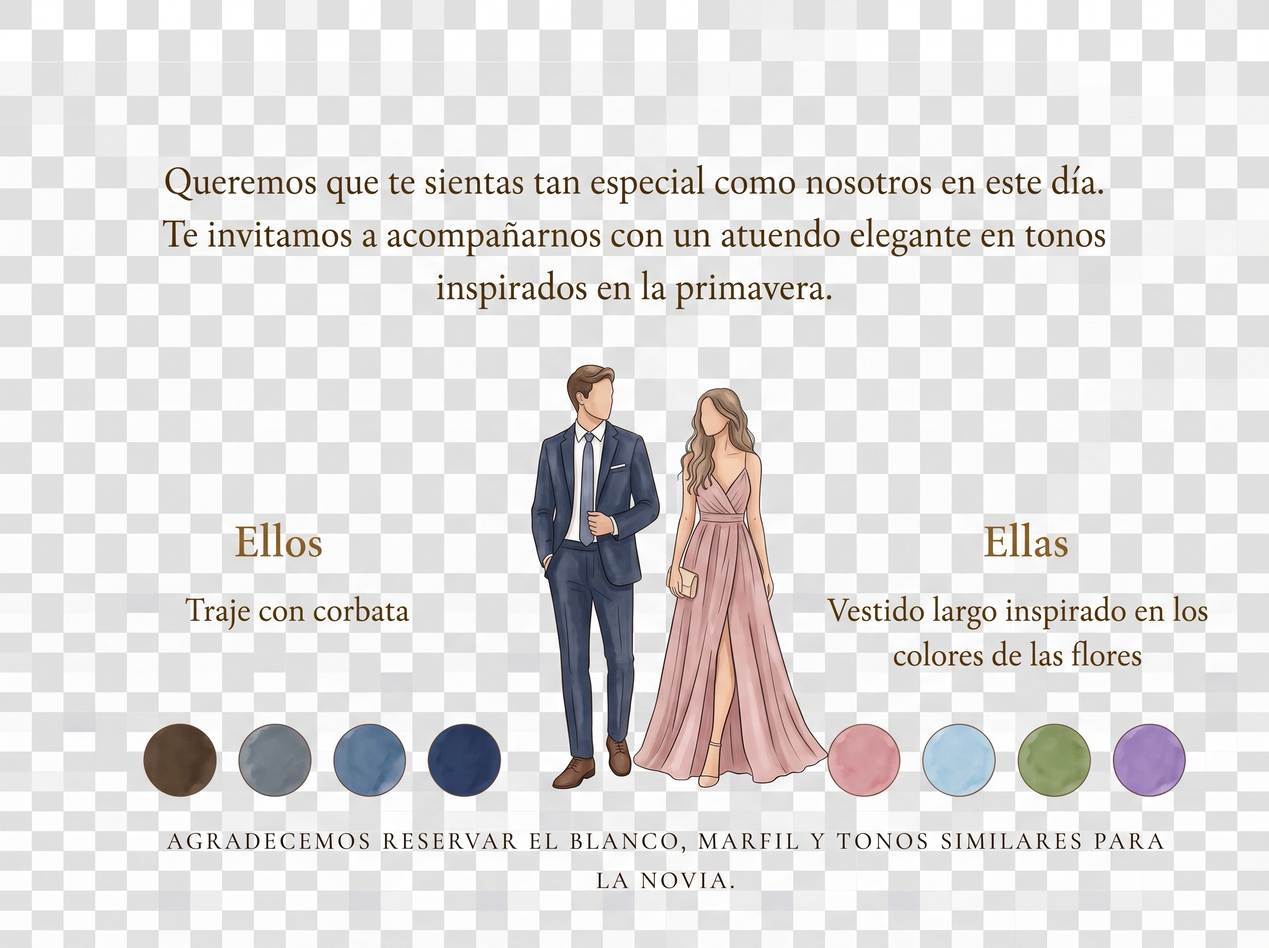
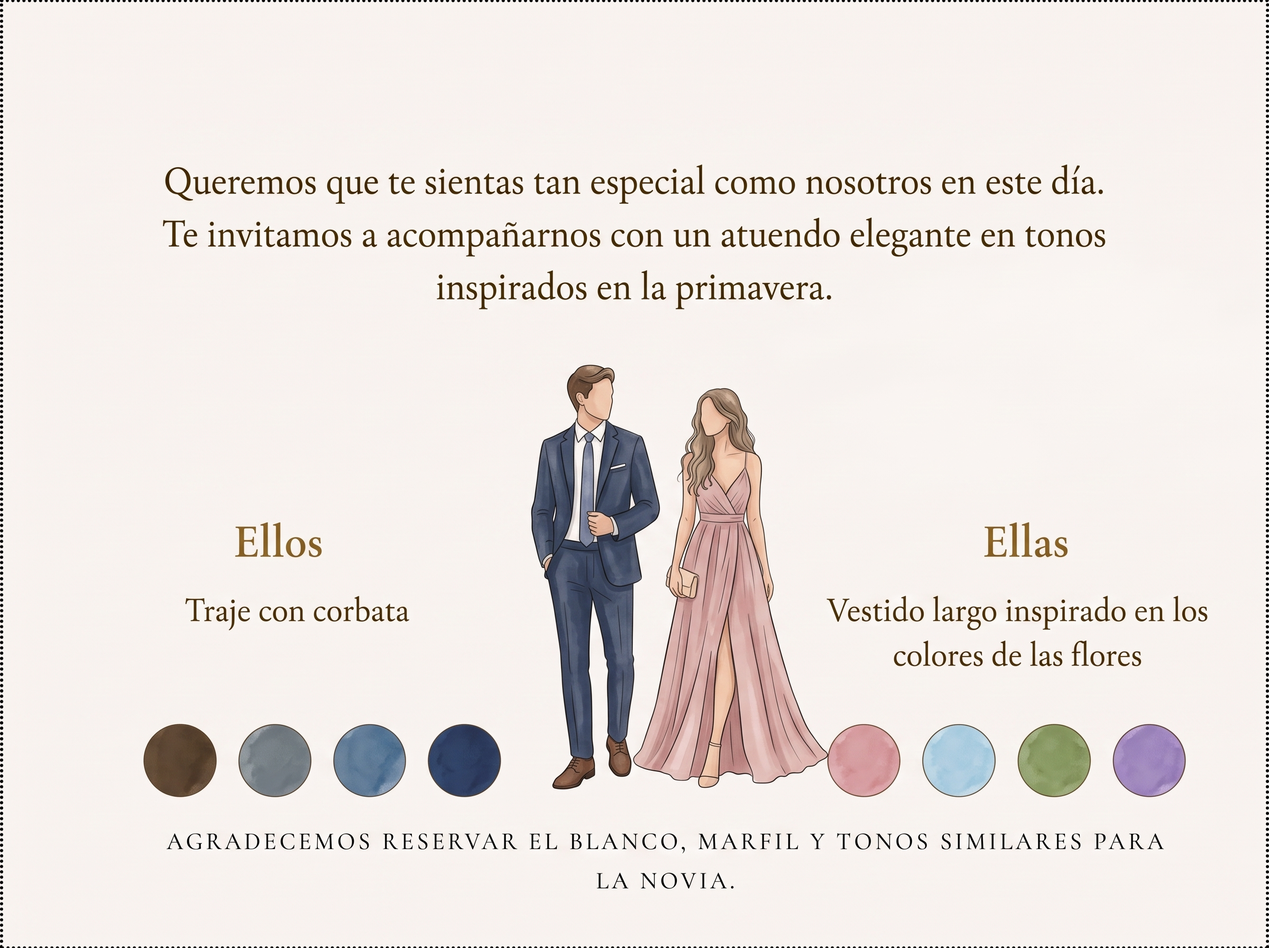
fix: reload latest dress code image

diff --git a/components/DressCode.tsx b/components/DressCode.tsx
@@ -14,7 +14,7 @@ function DressCodeGuide() {
   return (
     <div className="mx-auto mb-12 w-full max-w-5xl">
       <Image
-        src="/images/dress-code/codigo-vestuario.jpg?v=20261021-1216"
+        src="/images/dress-code/codigo-vestuario.jpg?v=20261021-1220"
         alt="Guía de código de vestuario y colores elegidos por los novios"
         width={2400}
         height={1792}
